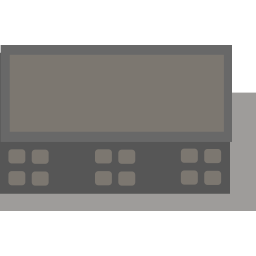
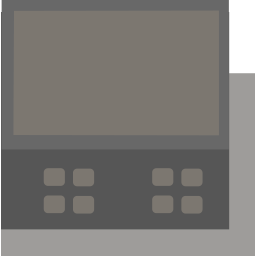
building fix

diff --git a/game.py b/game.py
@@ -45,14 +45,6 @@ class Game:
         self.sum_dx = 0
 
     def init(self):
-        self.player = Player(150, 150, self)
-        self.player.setup_handlers(self.keydown_handlers, self.keyup_handlers)
-        self.objects.append(self.player)
-        for i in range(MAX_ENEMIES_COUNT):
-            self.enemies.append(self.create_enemy())
-        self.objects.append(Citizen(150, 250, self))
-        self.objects.extend(self.enemies)
-        self.player.on_pos_changed = self.change_camera_pos
         self.buildings = []
         with open('Map/map.txt', 'r') as f:
             x = 0
@@ -61,10 +53,19 @@ class Game:
                 for s in line:
                     if s == '#':
                         self.buildings.append(MainBuilding(x, y, self))
-                    x += MainBuilding.size *2
+                    x += MainBuilding.size * 2
                 x = 0
                 y +=MainBuilding.size
         self.objects.extend(self.buildings)
+        self.player = Player(150, 150, self)
+        self.player.setup_handlers(self.keydown_handlers, self.keyup_handlers)
+        self.objects.append(self.player)
+        for i in range(MAX_ENEMIES_COUNT):
+            self.enemies.append(self.create_hero(Enemy))
+        self.objects.append(Citizen(150, 250, self))
+        self.objects.extend(self.enemies)
+        self.player.on_pos_changed = self.change_camera_pos
+
 
     def collide_with_building(self, x, y, r):
         for building in self.buildings:

diff --git a/main_building.py b/main_building.py
@@ -2,6 +2,7 @@ from Building import Building
 
 
 class MainBuilding(Building):
-    size = 256
+    size = 230
     def __init__(self, x, y, game):
         super().__init__(x, y, game, MainBuilding.size, 'images/main_building.png')
+        # self.radius = 240
